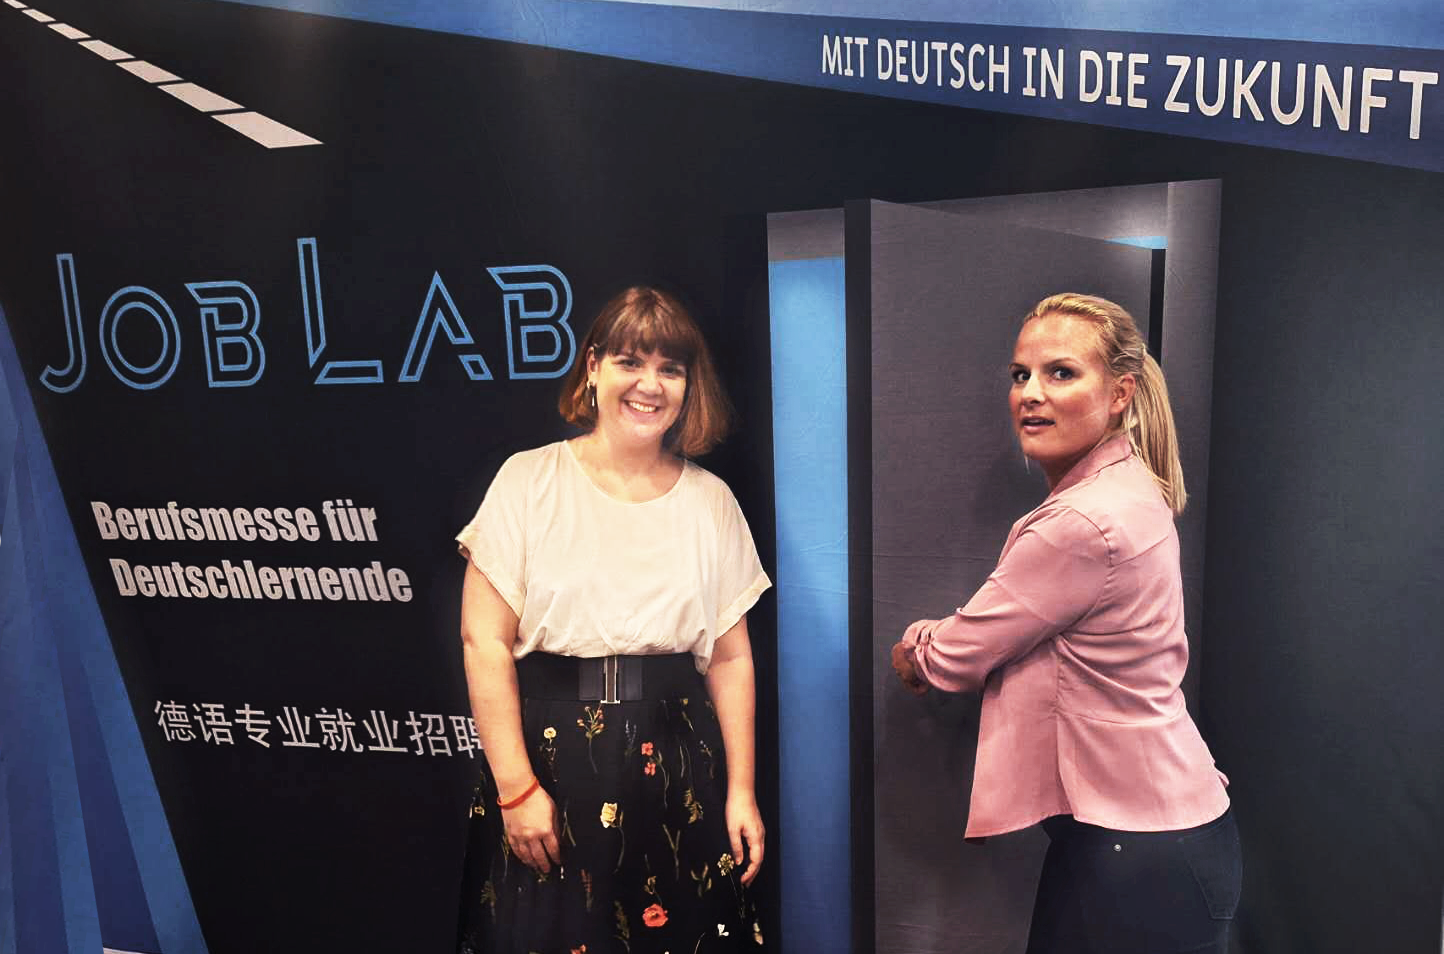
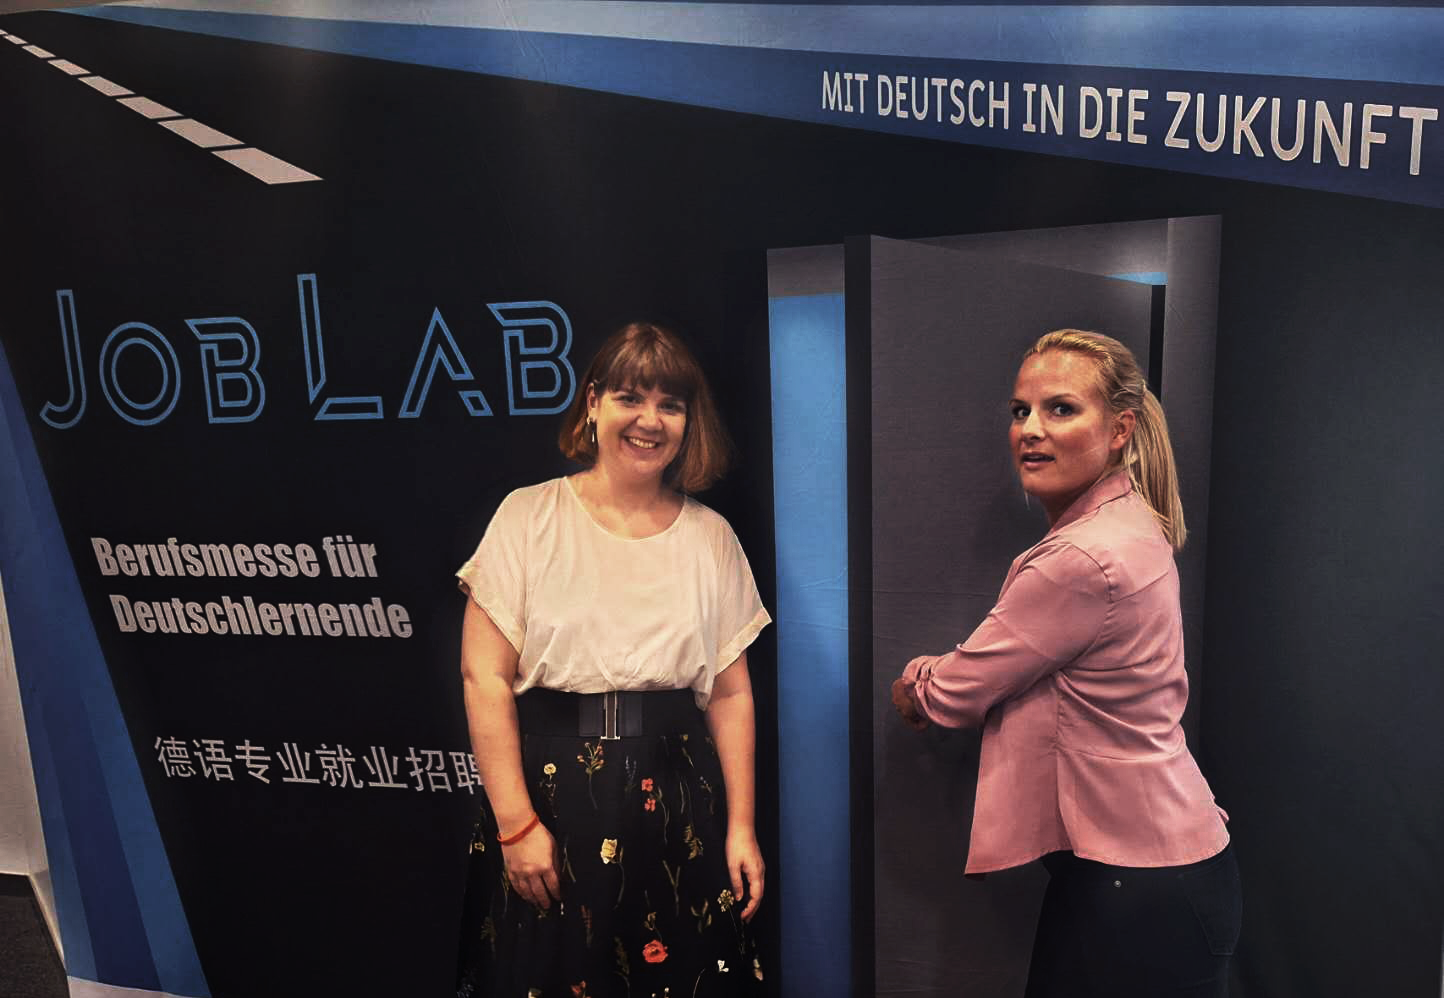
Bilder hinzugefügt für Mobilgeräte

diff --git a/styles/style.css b/styles/style.css
@@ -163,11 +163,20 @@ body.wechat-browser, html.wechat-browser {
 }
 
 .intro {
-    height: 1500px; 
+    height: 1550px; 
 }
 
 .intro-cn {
     height: 1400px; 
+}
+
+.teilnehmende-unternehmen {
+    background-color: rgb(255, 255, 255);
+    text-align: center;
+    font-family: Arial, sans-serif;
+    display: flex;
+    text-decoration: none;
+    margin-top: 550px;
 }
 
 .teilnehmende-unternehmen-cn {
@@ -176,7 +185,7 @@ body.wechat-browser, html.wechat-browser {
     font-family: Arial, sans-serif;
     display: flex;
     text-decoration: none;
-    margin-top: 440px;
+    margin-top: 470px;
 }
 
 
@@ -293,16 +302,13 @@ p {
     width: 100%;
     display: flex;
     align-items: center;
+    border-radius: 15px;
+}
+.fotos-joblab-b{
+    display: none;
 }
 
-.teilnehmende-unternehmen {
-    background-color: rgb(255, 255, 255);
-    text-align: center;
-    font-family: Arial, sans-serif;
-    display: flex;
-    text-decoration: none;
-    margin-top: 520px;
-}
+
 
 .zurueck {
     background-color: rgb(255, 255, 255);
@@ -610,7 +616,7 @@ table {
 ---------------------------------------------------------------------------------------------------------*/
 
 
-@media (max-width: 750px) {
+@media (max-width: 800px) {
 
     #chinese-text{
         font-size: 17px;
@@ -724,7 +730,7 @@ table {
     }
 
     .logo-daad {    
-        width: 300px; 
+        width: 280px; 
     }
 
 
@@ -806,5 +812,16 @@ table {
 
 #unterstuetzt-container {
     height: 2600px;
+}
+
+.fotos-joblab{
+    display: none;
+}
+.fotos-joblab-b{
+    width: 100%;
+    display: flex;
+    align-items: center;
+    border-radius: 15px;
+    margin-top: 150px;
 }
  }

diff --git a/guangzhou.html b/guangzhou.html
@@ -37,6 +37,9 @@
                 <div>
                     <img src="imagenes/fotos/joblab-foto-03.png" class="fotos-joblab">
                 </div>
+                <div>
+                    <img src="imagenes/fotos/joblab-foto-03b.png" class="fotos-joblab-b">
+                </div>
             </div >
             <div class="teilnehmende-unternehmen">
                 <a href="unternehmen.html">

diff --git a/beijing.html b/beijing.html
@@ -38,6 +38,9 @@
             <div>
                 <img src="imagenes/fotos/joblab-foto-01.jpg" class="fotos-joblab">
             </div>
+            <div>
+                <img src="imagenes/fotos/joblab-foto-01-b.jpg" class="fotos-joblab-b">
+            </div>
         </div>
         <div class="teilnehmende-unternehmen">
             <a href="unternehmen.html">

diff --git a/shanghai.html b/shanghai.html
@@ -39,6 +39,9 @@
             <div>
                 <img src="imagenes/fotos/joblab-foto-03.jpg" class="fotos-joblab">
             </div>
+            <div>
+                <img src="imagenes/fotos/joblab-foto-03-b.jpg" class="fotos-joblab-b">
+            </div>
         </div>
         <div class="teilnehmende-unternehmen">
             <a href="unternehmen.html">

diff --git a/guangzhou_cn.html b/guangzhou_cn.html
@@ -36,6 +36,9 @@
             <div>
                 <img src="imagenes/fotos/joblab-foto-03.png" class="fotos-joblab">
             </div>
+            <div>
+                <img src="imagenes/fotos/joblab-foto-03b.png" class="fotos-joblab-b">
+            </div>
         </div>
 
         <div class="teilnehmende-unternehmen-cn">

diff --git a/beijing_cn.html b/beijing_cn.html
@@ -35,6 +35,9 @@
             <div>
                 <img src="imagenes/fotos/joblab-foto-01.jpg" class="fotos-joblab">
             </div>
+            <div>
+                <img src="imagenes/fotos/joblab-foto-01-b.jpg" class="fotos-joblab-b">
+            </div>
         </div>
 
         

diff --git a/shanghai_cn.html b/shanghai_cn.html
@@ -40,6 +40,9 @@
             <div>
                 <img src="imagenes/fotos/joblab-foto-03.jpg" class="fotos-joblab">
             </div>
+            <div>
+                <img src="imagenes/fotos/joblab-foto-03-b.jpg" class="fotos-joblab-b">
+            </div>
         </div>
 
         
